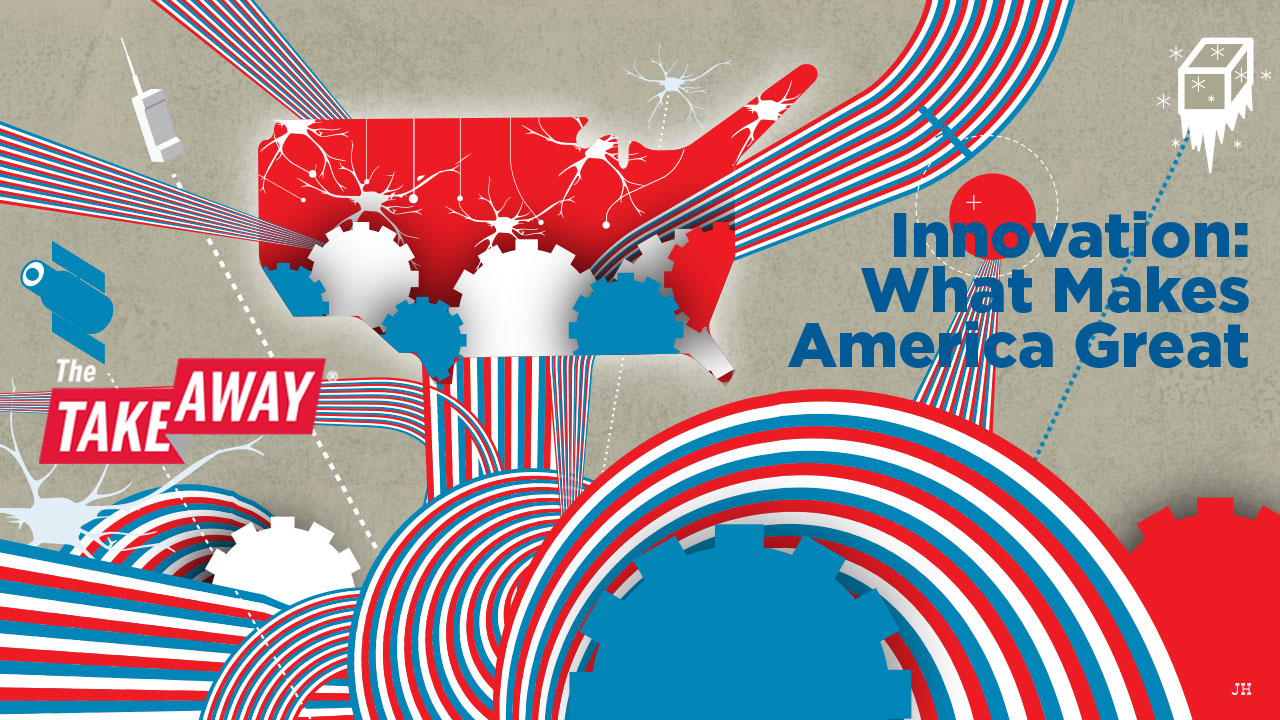
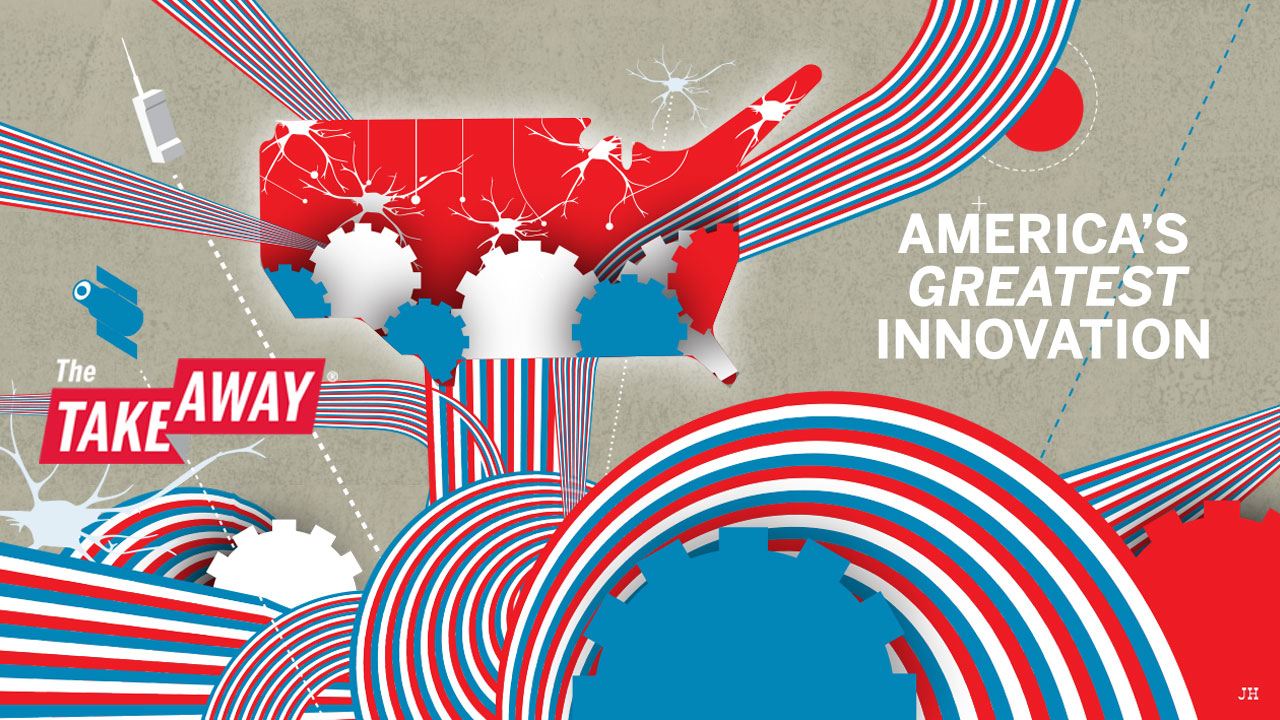
mobile click bugfix for modals and updated poster and styles

diff --git a/src/scripts/innovationsManager.js b/src/scripts/innovationsManager.js
@@ -44,24 +44,27 @@ let innovationsManager = {
           }
             // if (!event.currentTarget.classList.contains('disabled')) {
                 // votingManager.submitVote(event.currentTarget.getAttribute('formaction'));
+          let buttons = [modalYesButton, {text: 'Cancel', handler:modalNoHandler}];
 
-                var buttons = [modalYesButton, {text: 'Cancel', handler:modalNoHandler}];
-                var justTextModal = nanoModal(`<h2>${name}</h2><img src=${src} width=${width} height=${height} alt=\"${name}\"><p>${description}</p><p>Would you like to vote for this innnovation?</p>`, {buttons: buttons});
-                justTextModal.show();
-                // event.currentTarget.classList.add('chosen');
-                // cog.classList.add('voted');
+          let options = {
+            buttons: buttons
+          }
 
-                let currentChild = event.currentTarget.parentNode.firstElementChild;
-                console.log(currentChild);
-                currentChild.classList.add('disabled');
-                while (currentChild.nextSibling) {
-                    currentChild = currentChild.nextSibling;
-                    currentChild.classList.add('disabled');
-                };
-            // }
-            // console.log(event.currentTarget);
-            // console.log(event.target);
-            // console.log(event.currentTarget.dataset.name);
+          if (window.innerWidth <= 700) {
+            options.overlayClose = false;
+          }
+
+          let justTextModal = nanoModal(`<h2><span>${name}</span></h2><img src=${src} width=${width} height=${height} alt=\"${name}\"><p>${description}</p><p>Would you like to vote for this innnovation?</p>`, options);
+          justTextModal.show();
+
+
+          let currentChild = event.currentTarget.parentNode.firstElementChild;
+          currentChild.classList.add('disabled');
+          while (currentChild.nextSibling) {
+              currentChild = currentChild.nextSibling;
+              currentChild.classList.add('disabled');
+          };
+
         };
 
 

diff --git a/src/styles/_modals.scss b/src/styles/_modals.scss
@@ -1,6 +1,7 @@
 .nanoModal.nanoModalOverride {
     position: fixed;
-    width: 600px;
+    max-width: 600px;
+    width: 90%;
     text-align: left;
     background: $white;
     border-radius: 0;
@@ -77,9 +78,9 @@
     }
 }
 
-label {
+label, h2 span {
     margin: 10px 0 5px;
-    font-size: 1.5em;
+    font-size: 1.25em;
     background: $red;
     color: $white;
     display: inline !important;
@@ -93,17 +94,17 @@ label {
     background: transparent;
     z-index:2;
     position: relative;
+    font-size: .85em;
 }
 .nanoModalButtons {
     z-index: 2;
     position:relative;
     border-top: 0;
-
 }
 
 .nanoModalBtn {
     border: 3px solid $blue;
-    font-size: 1.33em;
+    font-size: 1em;
     font-weight: 400;
     letter-spacing: 0.015em;
     font-family: 'Alegreya Sans', sans-serif;

diff --git a/src/scripts/wildManager.js b/src/scripts/wildManager.js
@@ -53,8 +53,20 @@ let wildManager = {
     if (hasAlreadyVoted) {
       openModalButton.classList.add('disabled');
     }
+    let buttons = [  yesButton, cancelButton ];
+
+    let options = {
+      buttons: buttons,
+      classes: 'wild'
+    }
+
+    if (window.innerWidth <= 700) {
+      options.overlayClose = false;
+    }
+
+
     var modalObj = nanoModal(document.getElementsByClassName('wild-card')[0],
-                  { buttons: [  yesButton, cancelButton ], classes: 'wild'});
+                  options );
 
     openModalButton.addEventListener('click', function (event) {
       if (!hasAlreadyVoted) {

diff --git a/src/styles/_cog.scss b/src/styles/_cog.scss
@@ -330,14 +330,16 @@ header {
 .poster {
     width: 100%;
     height: auto;
-    // max-width: 1280px;
+    max-width: 1280px;
     margin: 0 auto;
     display: block;
     // position: absolute;
     // transform: translate(-50%, -50%);
     // top: 50%;
     // left:50%;
-    border-bottom: 10px solid $white;
+    border-bottom: 8px solid $white;
+    border-left: 8px solid $white;
+    border-right: 8px solid $white;
     // height: 100%;
 }
 .chosen {
